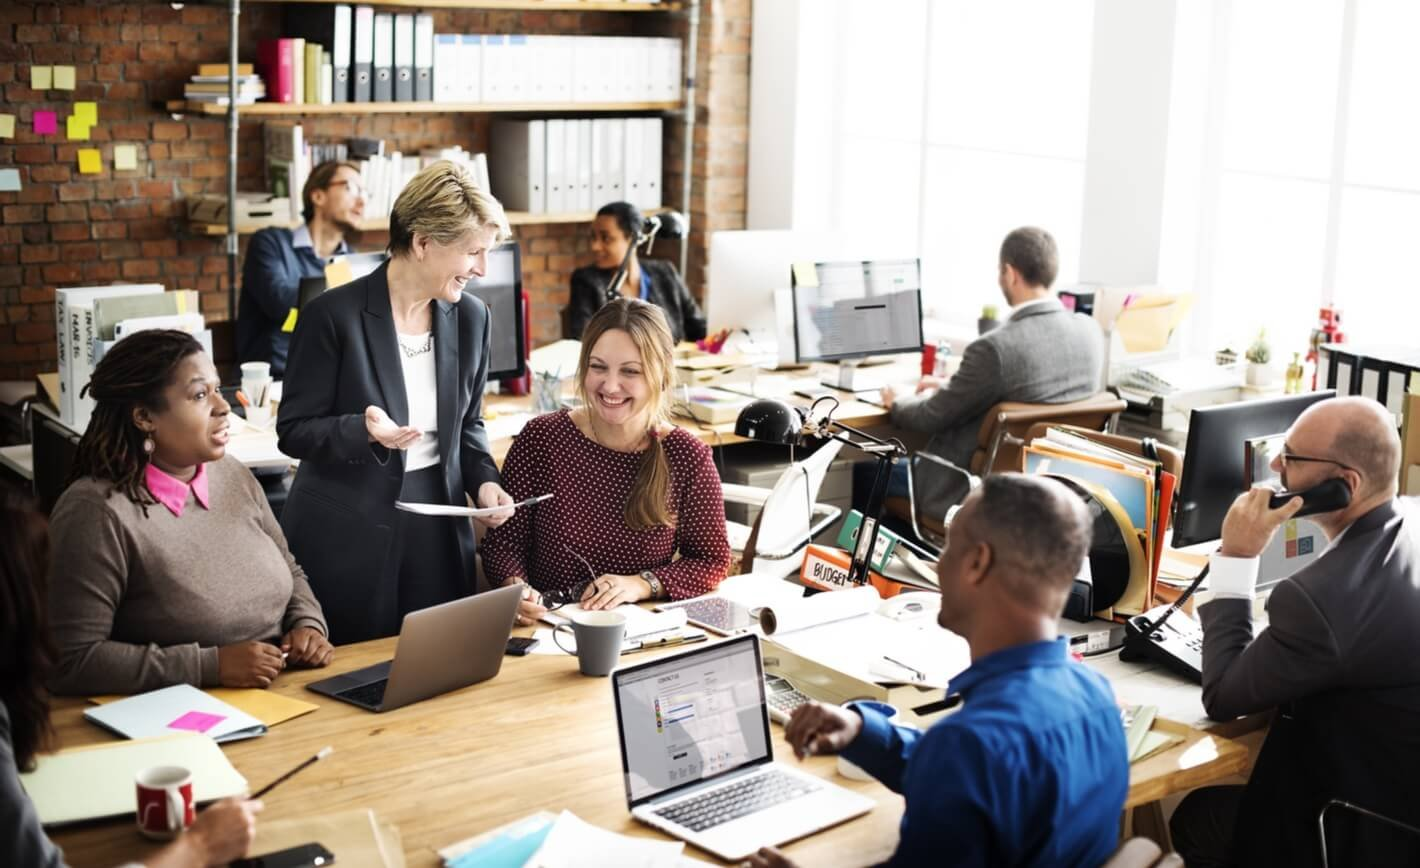
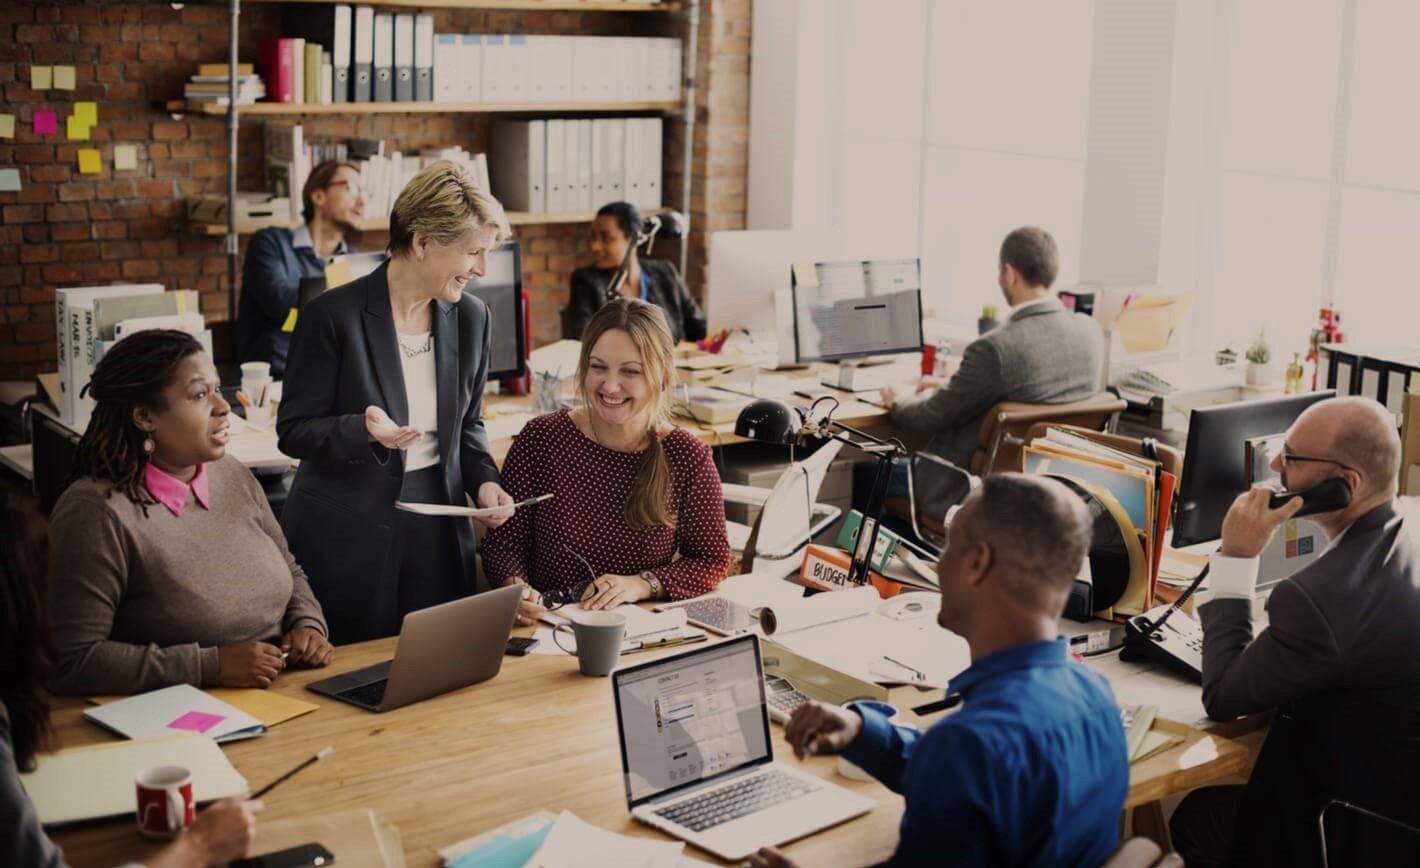
responsive about

diff --git a/src/pages/About/about.jsx b/src/pages/About/about.jsx
@@ -8,16 +8,17 @@ import pic4 from "./sumenh.jpg";
 const About = () => {
   return (
     <div className={css.about}>
-      <img src={pic1} alt="Work place" />
       <div className={css.content__top}>
-        <h1 className={css.aboutus}>Về chúng tôi</h1>
-        <p>
-          FUHO Pizza Việt Nam - nơi bạn được thỏa sức thể hiện chính mình với cơ
-          hội hấp dẫn để phát triển cá nhân lẫn nghề nghiệp toàn diện! Chúng tôi
-          tân tâm mang đến một môi trường làm việc thân thiện và chuyên nghiệp
-          cho từng nhân viên, nỗ lực hoàn thiện giá trị “Cùng nhau hướng đến một
-          FUHO Pizza TUYỆT VỜI!”
-        </p>
+        <div className="content">
+          <h1 className={css.aboutus}>Về chúng tôi</h1>
+          <p>
+            FUHO Pizza Việt Nam - nơi bạn được thỏa sức thể hiện chính mình với
+            cơ hội hấp dẫn để phát triển cá nhân lẫn nghề nghiệp toàn diện!
+            Chúng tôi tân tâm mang đến một môi trường làm việc thân thiện và
+            chuyên nghiệp cho từng nhân viên, nỗ lực hoàn thiện giá trị “Cùng
+            nhau hướng đến một FUHO Pizza TUYỆT VỜI!”
+          </p>
+        </div>
       </div>
       <div className={css.contents}>
         <div className={css.content}>

diff --git a/src/pages/About/about.module.scss b/src/pages/About/about.module.scss
@@ -1,26 +1,26 @@
-.about > img {
-  object-fit: cover;
-  position: relative;
-  opacity: 0.8 !important;
-  filter: brightness(0.7);
-  width: 100%;
-}
 .about {
   display: grid;
 }
 .content__top {
-  position: absolute;
-  bottom: 80px;
-  left: 380px;
-  text-align: center;
-  z-index: 1;
+  background-image: url(./workplace.jpg);
+  width: 100%;
+  height: 810px;
+  display: grid;
+  justify-content: center;
+  align-items: center;
   color: #fff;
+}
+.content__top > .content {
+  width: 500px;
+  height: 500px;
 }
 .about > .content__top h1 {
   font-size: 56px;
+  text-align: center;
 }
 .about > .content__top p {
   width: 600px;
+  text-align: center;
 }
 .contents {
   height: 300px;
@@ -60,4 +60,21 @@
 .content p {
   color: rgba(138, 138, 138, 0.8);
   margin: 0 20px 20px 20px;
+}
+@media screen and (max-width: 1024px) {
+  .about > .content__top p {
+    width: 370px;
+  }
+  .content {
+    width: 250px;
+  }
+}
+@media screen and (max-width: 600px) {
+  .contents {
+    display: grid;
+    grid-template-columns: 1fr;
+    justify-items: center;
+    height: 100%;
+    gap: 40px;
+  }
 }
